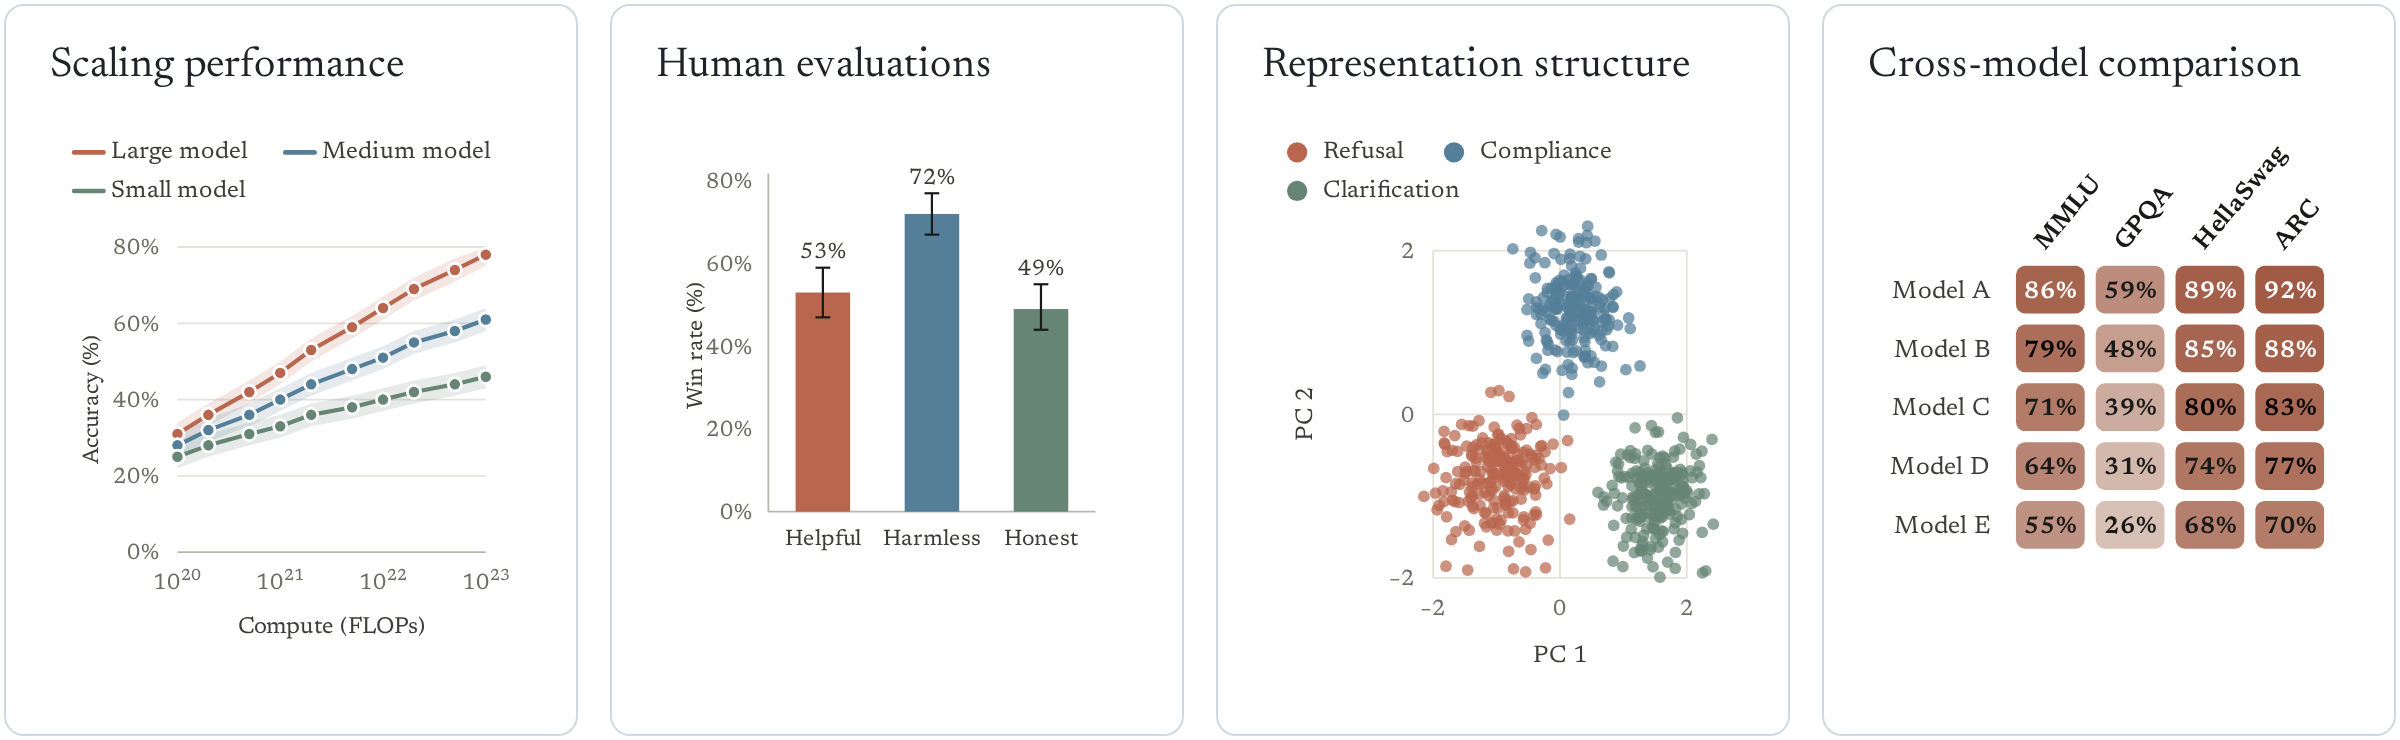
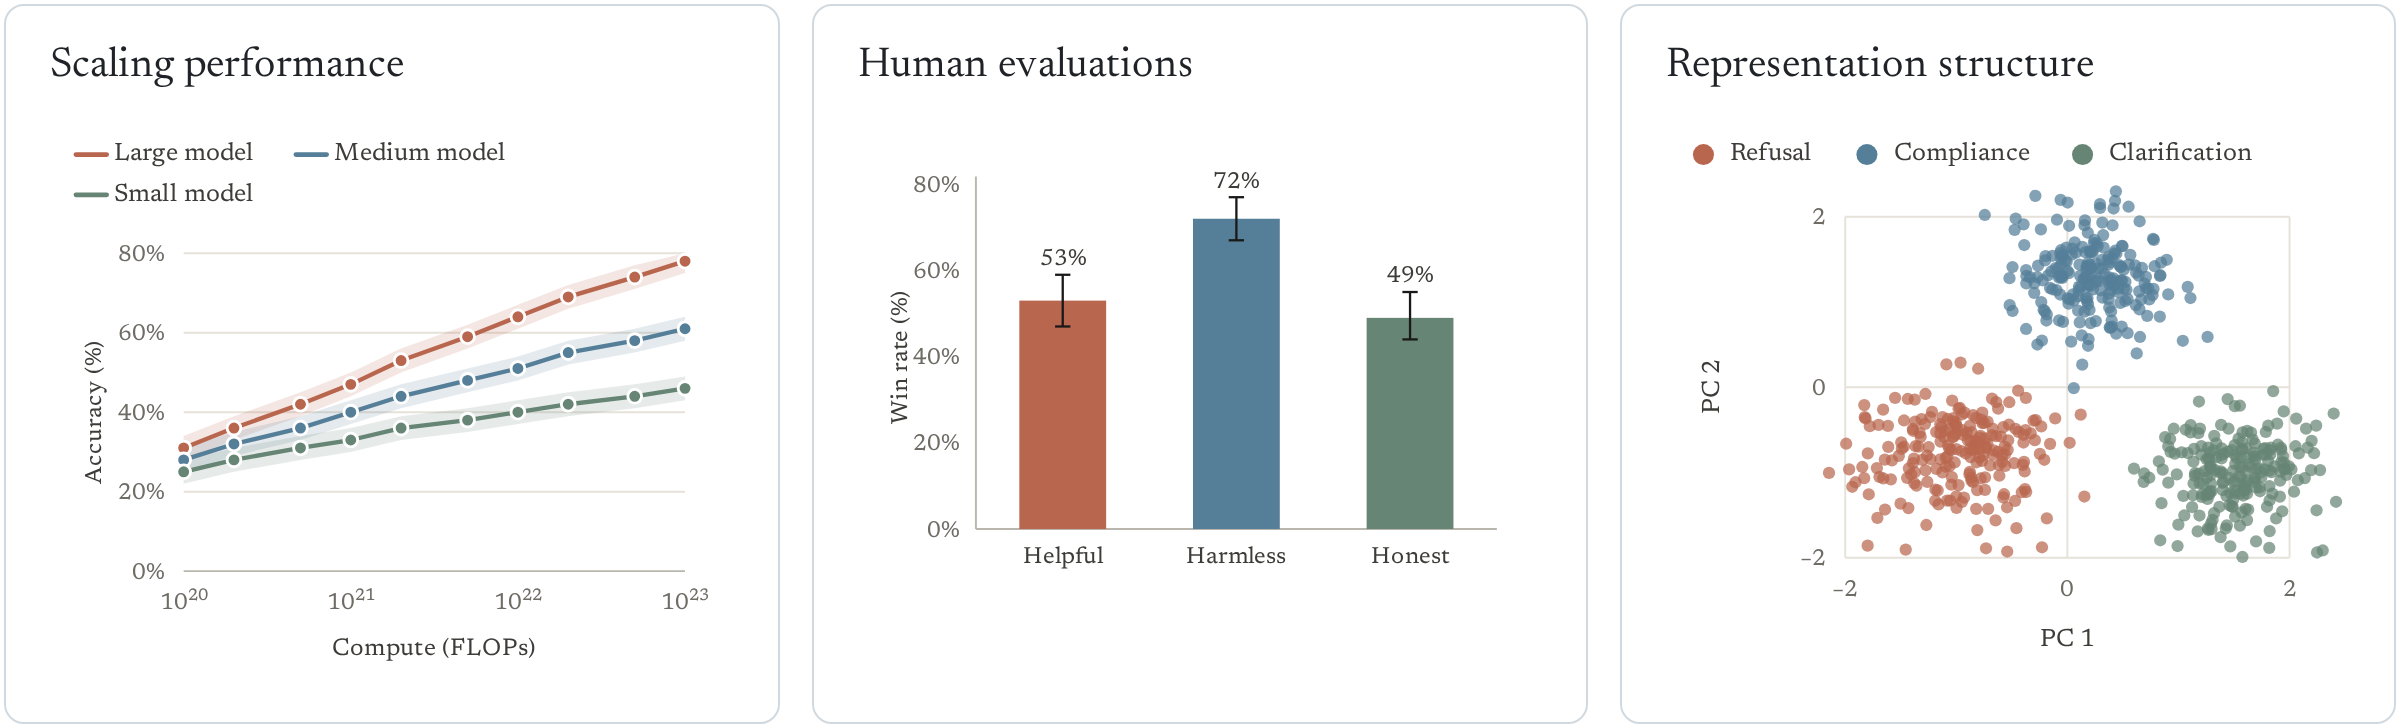
Landing row: three example cards instead of four

diff --git a/docs/readme/build.py b/docs/readme/build.py
@@ -109,13 +109,16 @@ def hero(t: dict) -> str:
 </div>"""
 
 
+ROW = ["Scaling performance", "Human evaluations", "Representation structure"]  # three, so none is cramped
+
+
 def row() -> str:
-    figs = examples(236)
-    cards = "".join(f'<div class="ex"><div class="h">{name}</div>{fig.svg(background=False)}</div>'
-                    for name, fig in figs.items())
+    figs = examples(330)
+    cards = "".join(f'<div class="ex"><div class="h">{name}</div>{figs[name].svg(background=False)}</div>'
+                    for name in ROW)
     return f"""
 <style>
-.row{{display:grid;grid-template-columns:repeat(4,1fr);gap:16px;padding:2px}}
+.row{{display:grid;grid-template-columns:repeat(3,1fr);gap:16px;padding:2px}}
 .ex{{border:1px solid {BORDER};border-radius:10px;padding:18px 12px 8px;background:{CARD}}}
 .ex .h{{font:400 21px/1.2 {SERIF};color:{CARD_INK};margin:0 0 4px 10px}}
 .ex svg{{width:100%;height:auto;display:block}}

diff --git a/README.md b/README.md
@@ -5,7 +5,7 @@
 
 <a href="#quick-start"><picture><source media="(prefers-color-scheme: dark)" srcset="docs/readme/dark/get-started.png"><img src="docs/readme/get-started.png" alt="Get started" height="42"></picture></a>&nbsp;&nbsp;<a href="examples/README.md"><picture><source media="(prefers-color-scheme: dark)" srcset="docs/readme/dark/view-examples.png"><img src="docs/readme/view-examples.png" alt="View examples" height="42"></picture></a>
 
-<img src="docs/readme/examples.png" alt="Four example figures: accuracy against compute for three model sizes on a log axis; win rates for helpful, harmless and honest with intervals; three clusters of points on two principal components; a heatmap of five models on four benchmarks." width="100%">
+<img src="docs/readme/examples.png" alt="Three example figures: accuracy against compute for three model sizes on a log axis; win rates for helpful, harmless and honest with intervals; three clusters of points on two principal components." width="100%">
 
 ## Why viz?
 
